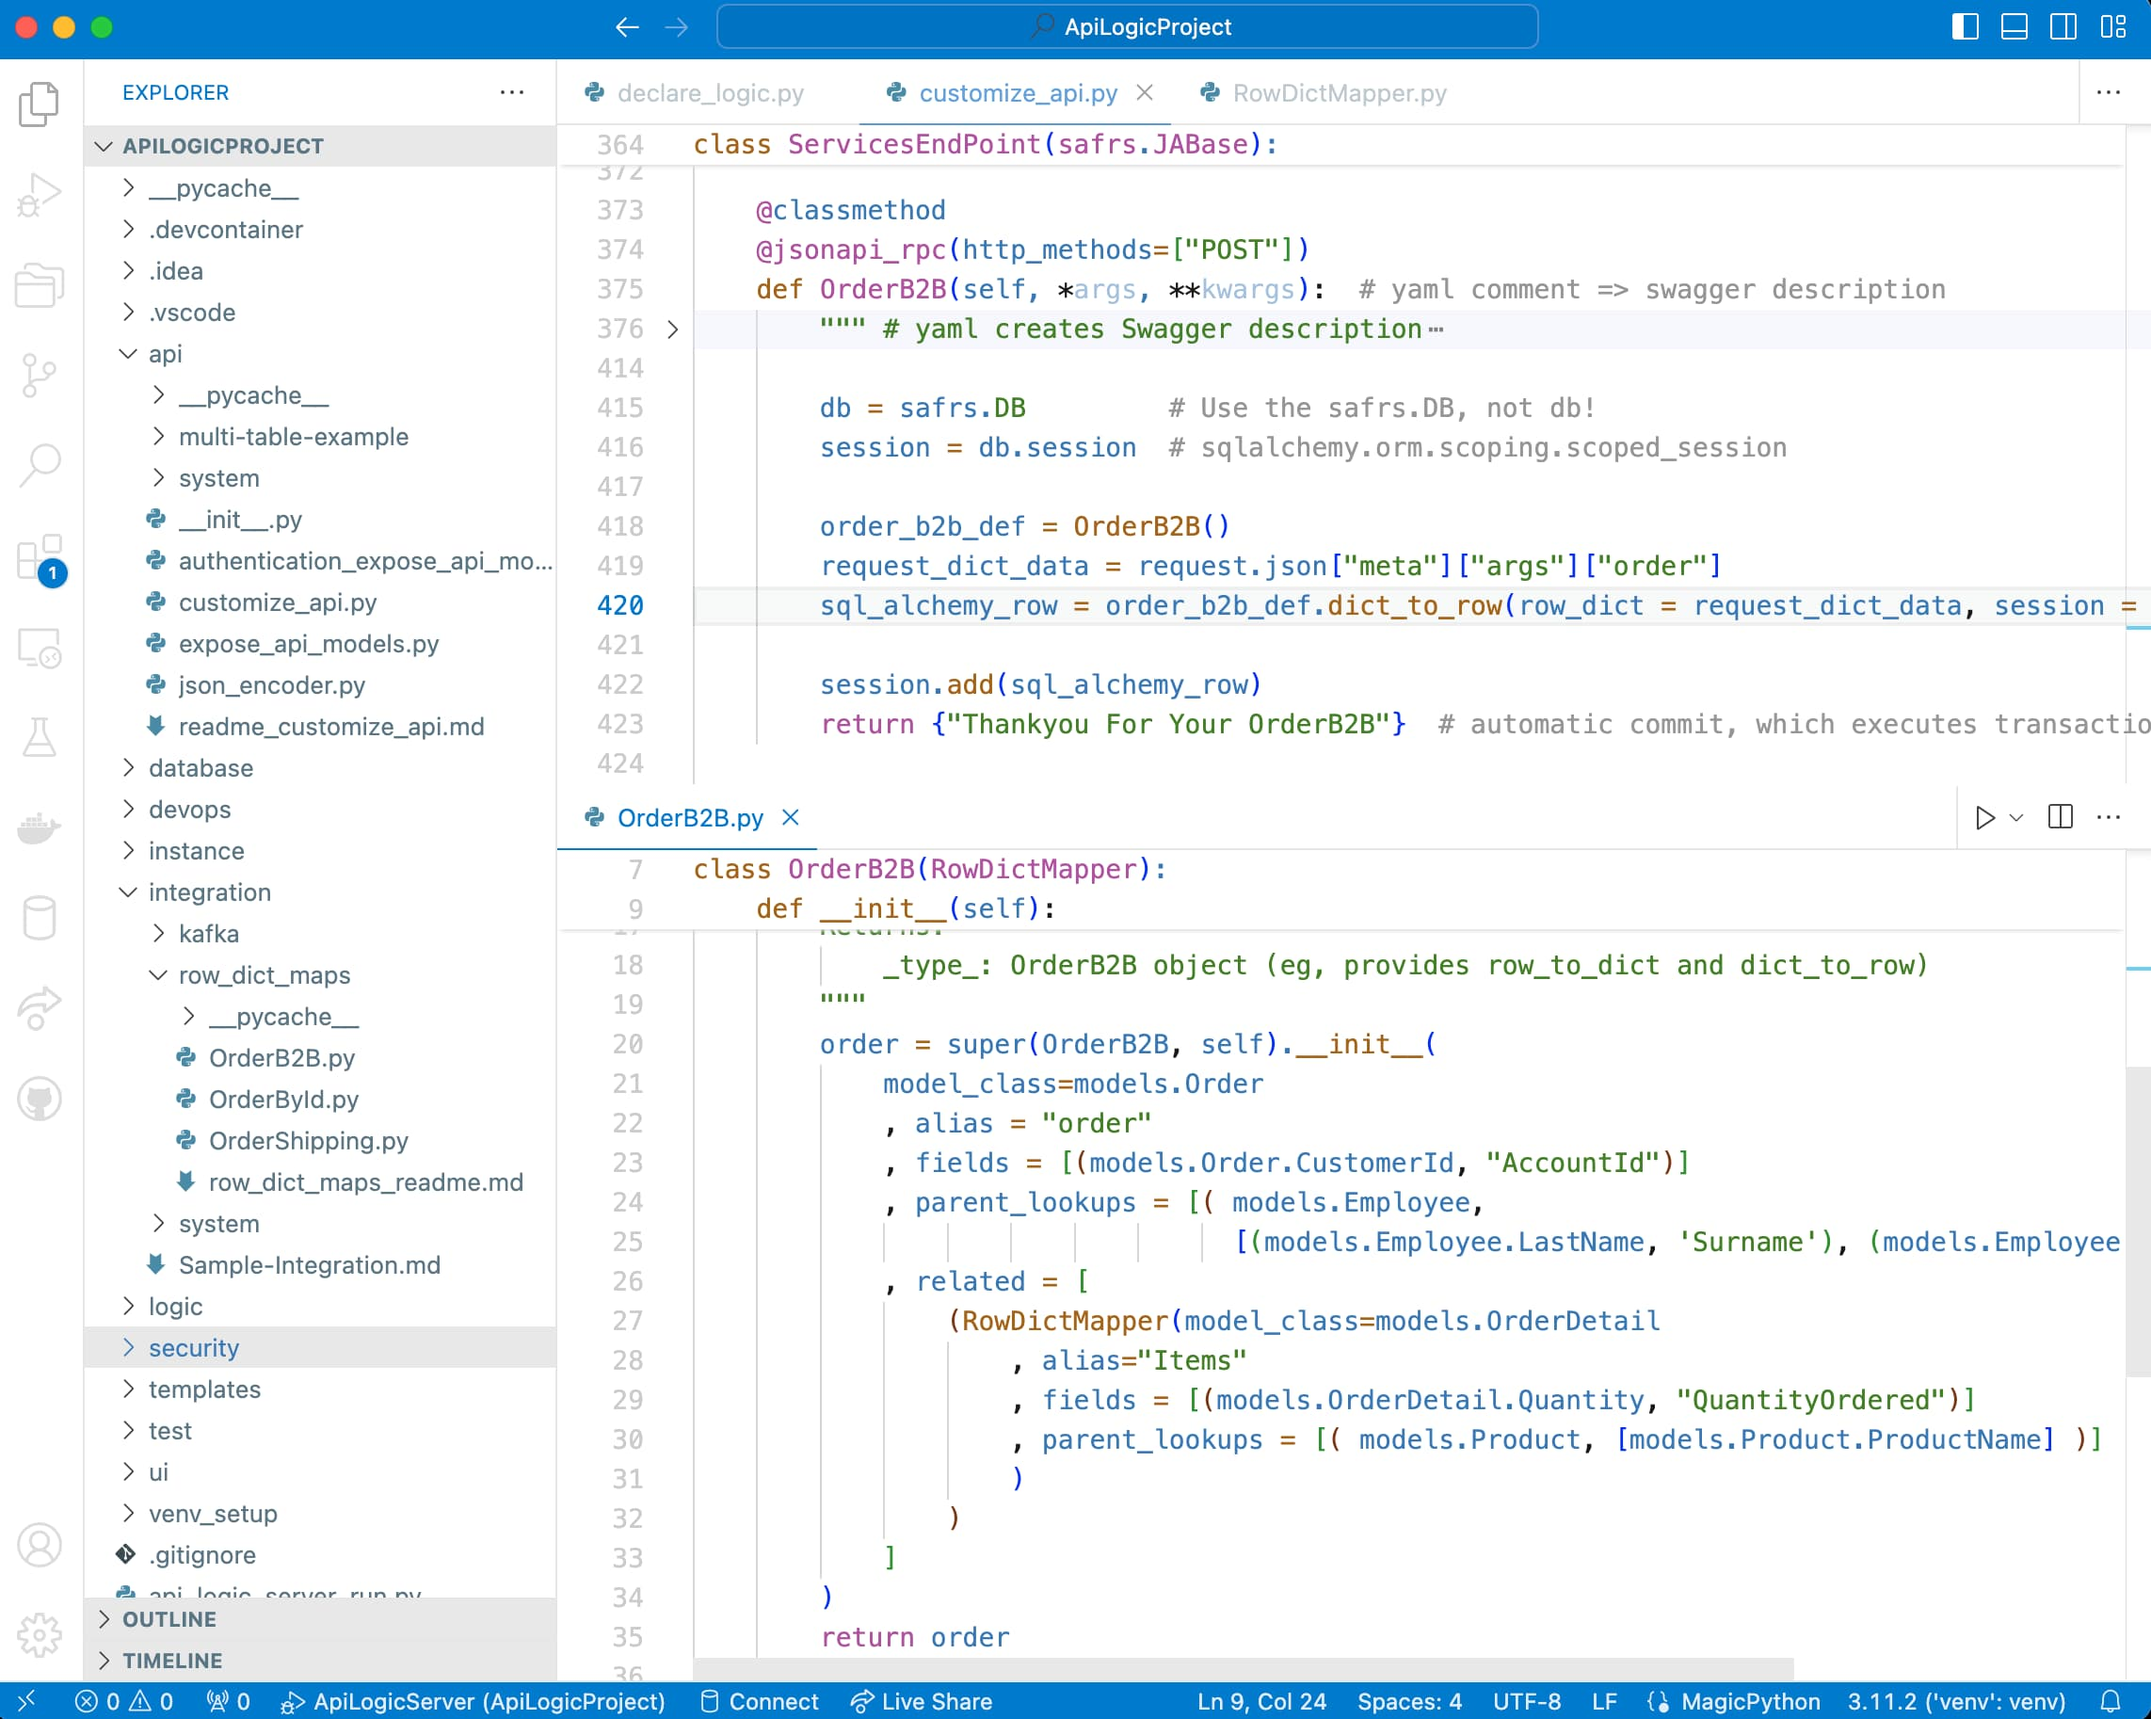
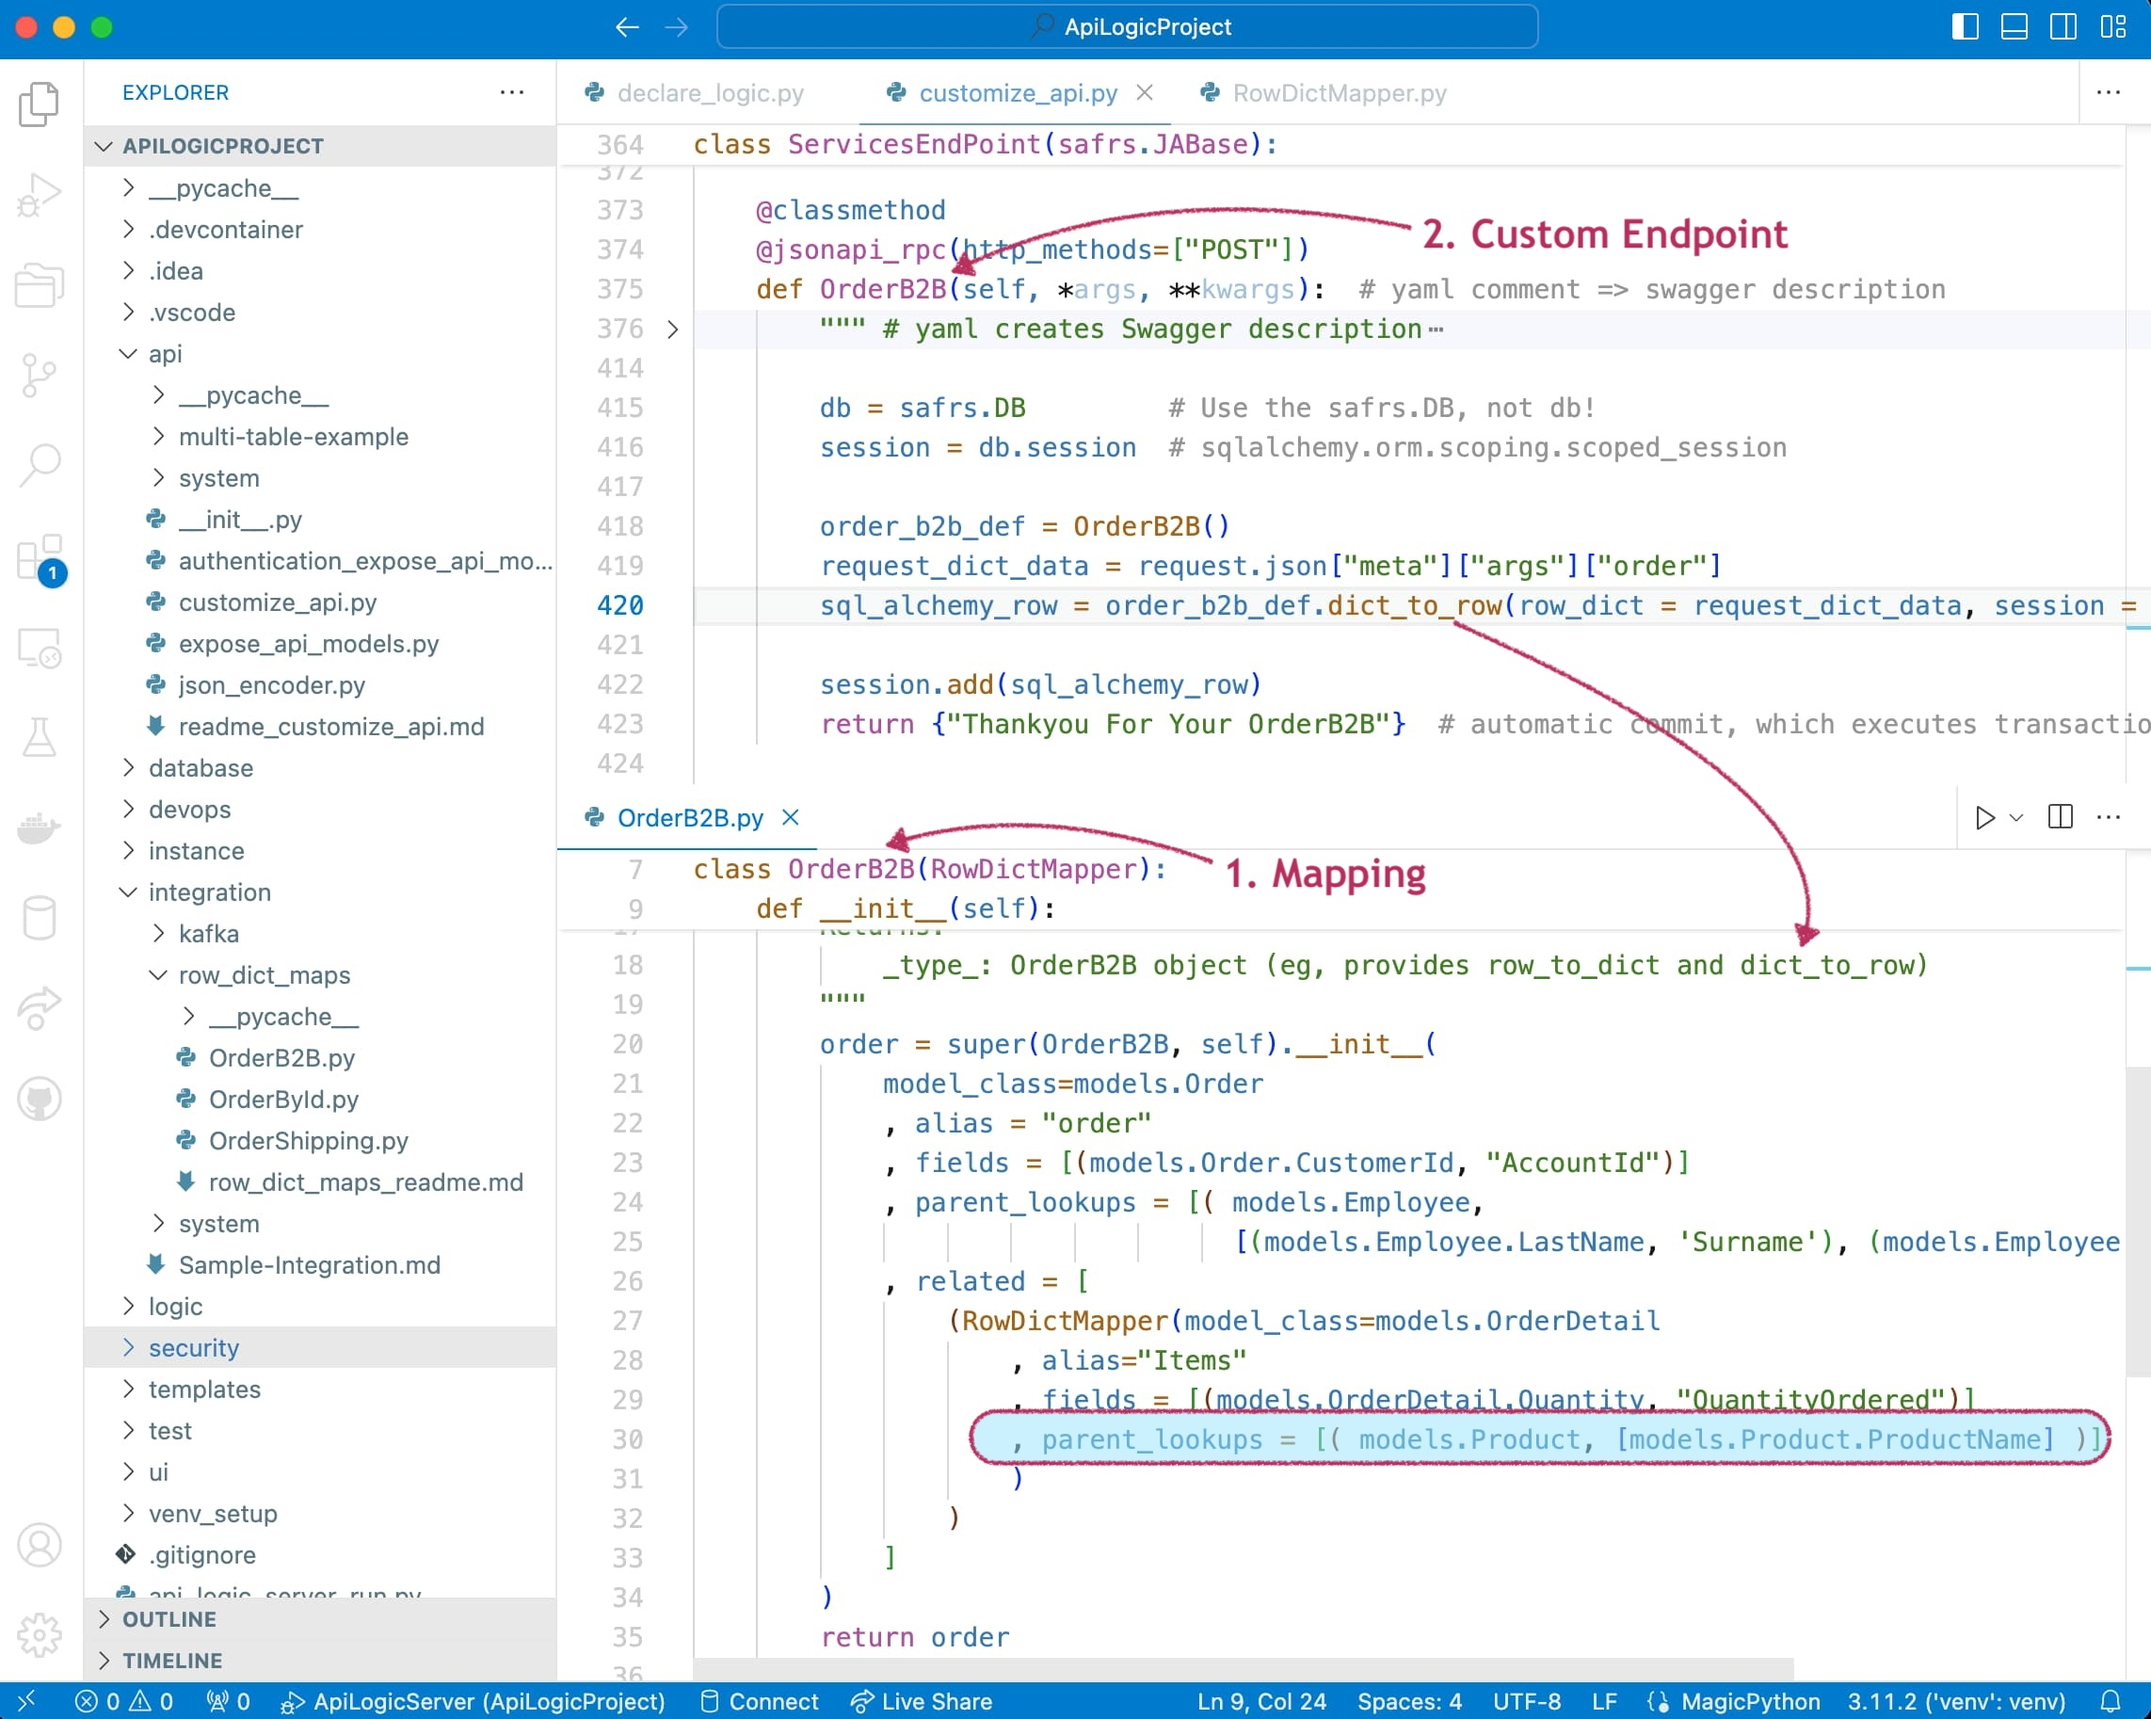
wip

diff --git a/docs/Sample-Integration.md b/docs/Sample-Integration.md
@@ -6,9 +6,7 @@ version: 0.01 from docsite
 
 # Purpose
 
-Coming Soon -- see preview.
-
-## System Requirements
+**System Requirements**
 
 This app illustrates using IntegrationServices for B2B push-style integrations with APIs, and internal integration with messages.  We have the following **Use Cases:**
 
@@ -29,7 +27,7 @@ The **Shipping API Logic Server** listens on kafka, and processes the message.<b
 ![overview](https://github.com/ApiLogicServer/Docs/blob/main/docs/images/integration/overview.jpg?raw=true)
 &nbsp;
 
-## Self-serve APIs, Shared Logic
+**Self-serve APIs, Shared Logic**
 
 This sample illustrates some key architectural considerations:
 
@@ -47,7 +45,6 @@ We'll further expand of these topics as we build the system, but we note some Be
 * **Logic should be re-used** over the UI and API transaction sources
 
     * Logic in UI controls is undesirable, since it cannot be shared with APIs and messages
-
 
 &nbsp;
 
@@ -89,7 +86,7 @@ One command has created meaningful elements of our system:
 
     ### API: Ad hoc Integration
 
-    The system creates an API with end points for each table, with filtering, sorting, pagination, optimistic locking and related data access.
+    The system creates an API with end points for each table, providing filtering, sorting, pagination, optimistic locking and related data access.
     
     The API is [**self-serve**](https://apilogicserver.github.io/Docs/API-Self-Serve/): consumers can select their own attributes and related data, eliminating reliance on custom API development.  In this sample, our self-serve API meets our needs for Ad Hoc Integration, and Custom UI Dev.
 
@@ -113,7 +110,7 @@ You normally apply such customizations using your IDE, leveraging code completio
 
 <details markdown>
 
-<summary> Show me how -- apply customizations </summary>
+<summary> Show me how -- apply customizations, start Kafka </summary>
 
 &nbsp;
 
@@ -140,11 +137,12 @@ ApiLogicServer add-cust
 
 **3. Enable and Start Kafka**
 
-&nbsp;
 
 <details markdown>
 
 <summary>Show me how</summary>
+
+&nbsp;
 
 To enable Kafka:
 
@@ -210,8 +208,6 @@ Note the automation for **automatic joins** (Product Name, not ProductId) and **
 
 Such logic (multi-table derivations and constraints) is a significant portion of a system, typically nearly half.  API Logic server provides **spreadsheet-like rules** that dramatically simplify and accelerate logic development.
 
-&nbsp;
-
 !!! pied-piper ":bulb: Logic: Multi-table Derivation and Constraint Rules, 40X More Concise"
 
 
@@ -227,7 +223,12 @@ Such logic (multi-table derivations and constraints) is a significant portion of
 
     <img src="https://github.com/ApiLogicServer/Docs/blob/main/docs/images/integration/logic-chaining.jpeg?raw=true">
 
-    Rules operate by handling SQLAlchemy events, so apply to all ORM access, whether by the api engine, or your custom code.
+    Rules operate by handling SQLAlchemy events, so apply to all ORM access, whether by the api engine, or your custom code.  Once declared, you don't need to remember to call them, which promotes quality.
+
+    The rules shown above prevented the too-big order with *multi-table logic* to copy the Product Price, compute the Amount, roll it up to the AmountTotal and Balance, and check the CreditLimit.  
+    
+    These same rules also govern changing orders, deleting them, picking different parts - about 9 transactions, all automated.  Implementing all this by hand would otherwise require about 200 lines of code.
+    
 
     &nbsp;
 
@@ -276,23 +277,23 @@ We now have a running system - an API, logic, security, and a UI.  To integrate 
 
 ### B2B Custom Resource
 
-The self-serve API, however, does not conform to the format required for a B2B partnership.  We need to create a custom resource.
+The self-serve API does not conform to the format required for a B2B partnership.  We need to create a custom resource.
 
 You can create custom resources by editing `customize_api.py`, using standard Python, Flask and SQLAlchemy.  A custom `OrderB2B` resource is shown below.
 
 The main task here is to ***map*** a B2B payload onto our logic-enabled SQLAlchemy rows.  API Logic Server provides a declarative `ApplicationIntegration` service you can use as follows:
 
-1. Declare the mapping -- see the `OrderB2B` class in the right pane
+1. Declare the mapping -- see the `OrderB2B` class in the lower pane
 
     * Note the support for **lookup**, so partners can send ProductNames, not ProductIds
 
-2. Create the custom API endpoint -- see the left pane:
+2. Create the custom API endpoint -- see the upper pane:
 
     * Add `def OrderB2B` to `customize_api/py` to create a new endpoint
     * Use the `OrderB2B` class to transform a api request data to SQLAlchemy rows (`dict_to_row`)
     * The automatic commit initiates the same shared logic described above to check credit and reorder products
 
-![post order](https://github.com/ApiLogicServer/Docs/blob/main/docs/images/integration/post-orderb2b.jpg?raw=true)
+![dict to row](https://github.com/ApiLogicServer/Docs/blob/main/docs/images/integration/dict-to-row.jpg?raw=true)
 
 So, our custom endpoint required about 7 lines of code, along with the API specification on the right.
 
